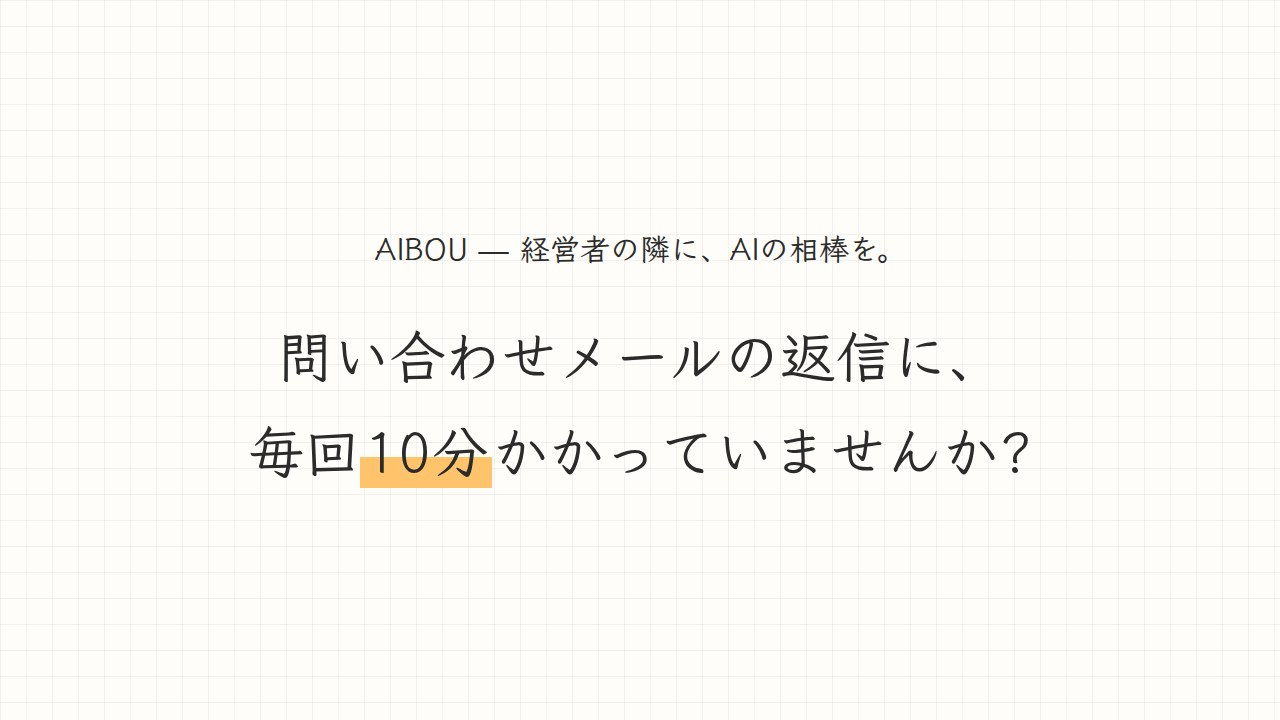
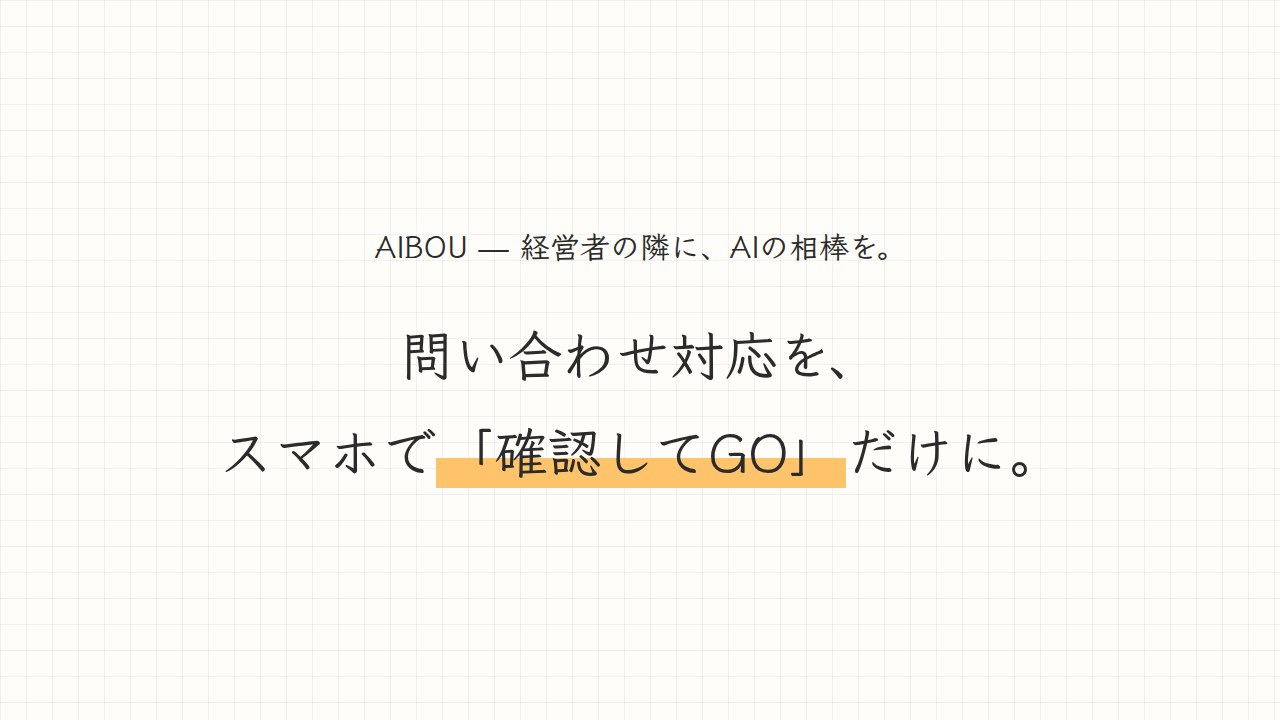
デモ動画を刷新: 問い合わせ→AI下書き→LINE通知→GO承認→自動返信の仕組みデモに
- 5ステップ構成(66秒): 受信メール/AI自動下書き/スマホ通知で確認/ワンタップ承認/自動送信
- LPの見出しを「こんな仕組みが作れます」に変更

Claude-Session: https://claude.ai/code/session_019TCWUUMKZzCPB1x9WqKHND

Changed region(s): [[0.1875, 0.5806, 0.8125, 0.7028], [0.2188, 0.4583, 0.75, 0.55], [0.2812, 0.3056, 0.6875, 0.3667]]

diff --git a/index.html b/index.html
@@ -178,13 +178,13 @@
 <!-- デモ動画 -->
 <section class="demo">
   <div class="wrap">
-    <h2>実際の様子を<span class="mk">60秒</span>でどうぞ</h2>
+    <h2>こんな<span class="mk">仕組み</span>が作れます(約1分)</h2>
     <div class="videobox">
       <video controls playsinline preload="metadata" poster="demo-poster.jpg">
         <source src="demo.mp4" type="video/mp4">
       </video>
     </div>
-    <p class="vnote">※音は出ません。画面はAI活用の流れを再現したイメージです。</p>
+    <p class="vnote">※音は出ません。画面は構築できる仕組みの一例を再現したイメージです。</p>
   </div>
 </section>
 